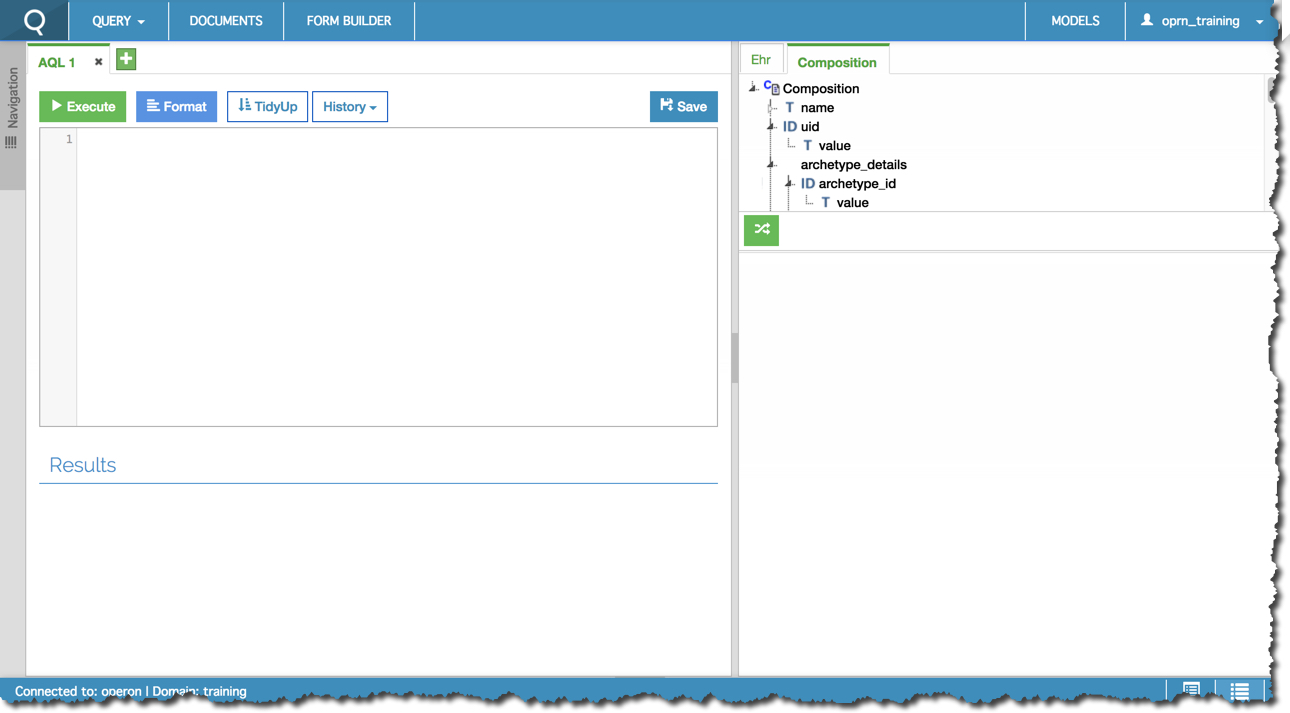
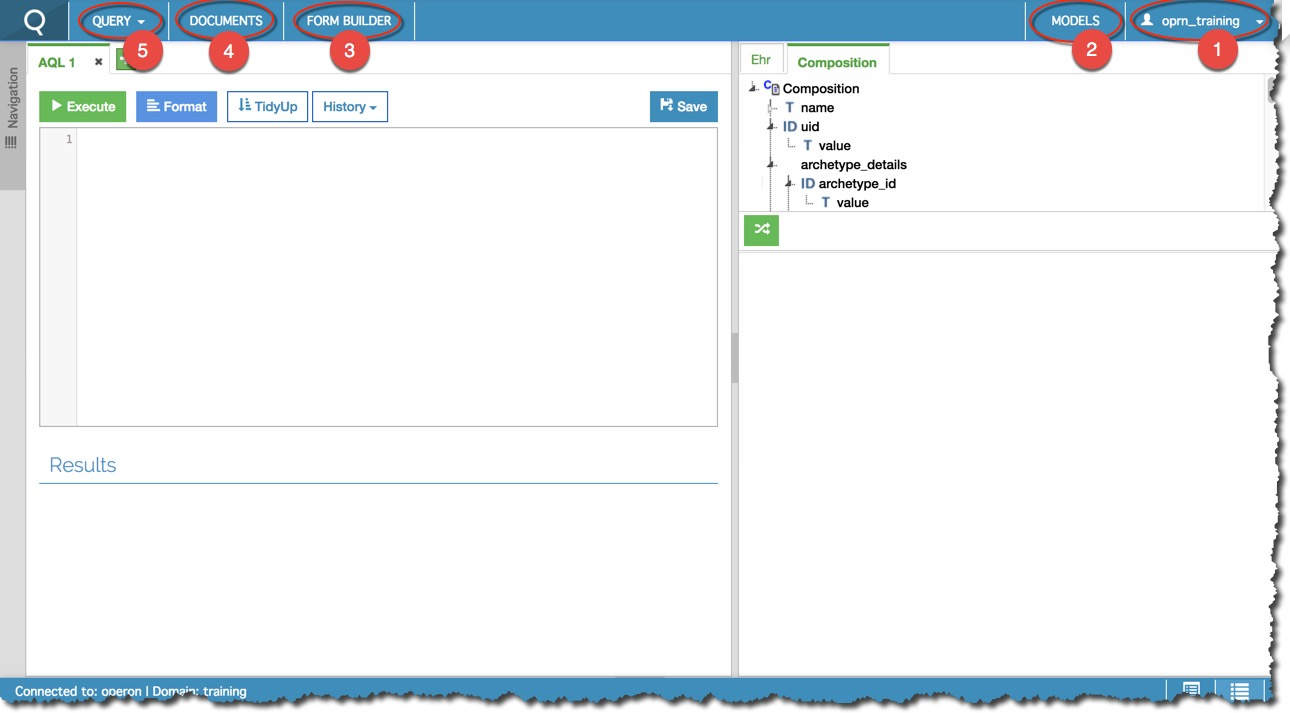
new content and updated images

diff --git a/pages/Operon/EHR Explorer/EHREX2-navigation.md b/pages/Operon/EHR Explorer/EHREX2-navigation.md
@@ -6,3 +6,27 @@ summary: This section provides an overview of the EHR Explorer home page and how
 ---
 
 ## Home page
+The home page provides access to the different functions. Each of the functions is briefly described below, and there is also a separate page for each which describes all the available functionality in more detail.
+
+<img src="\images/ehr_explorer_landing_page.jpg" alt="EHR Explorer Home Page">
+
+## Navigation
+To navigate to any of the available functions, just use the menu bar at the top.
+
+### 1. Settings and log out
+The button on the very right hand side provides access to the settings screen and allows you to log out. On the settings screen you can define your default domain (if you have more than one), choose whether to have a domain selector available on the login screen, define client and server languages, enable "|" notation and choose the template list label from either Template Id, Default name or Localised name.
+
+<img src="\images/ehr_explorer_settings.jpg" alt="EHR Explorer Settings">
+
+### 2. Models
+The Models option switches to the Models view where you can import, search and view archetypes and templates. To find out more about this function, [click here]({{site.baseurl}}/EHREX3-models.html)
+
+<img src="\images/ehr_explorer_models.jpg" alt="EHR Explorer Models">
+
+### 3. Form Builder
+The Form Builder option allows you to create, save and test basic forms for entering data directly in the Clinical Data Repository. To find out more
+
+### 4. Documents
+
+
+### 5. Query

diff --git a/pages/Operon/EHR Explorer/EHREX3-models.md b/pages/Operon/EHR Explorer/EHREX3-models.md
@@ -1,0 +1,15 @@
+---
+title:  "Models"
+sidebar: operon_sidebar
+permalink: EHREX3-models.html
+summary: This section provides instructions how to use the Models function in EHR Explorer.
+---
+
+## Overview
+The Models function allows you to manage the templates and archetypes used in your Clinical Data Repository. You can import new templates (which will automatically import the associated archetypes), delete templates which are no longer required and view the content of existing templates and archetypes.
+
+You can access the Model function by clicking on the Models button (2) in the top menu.
+
+<img src="\images/ehr_explorer_landing_page.jpg" alt="EHR Explorer Home Page">
+
+## Import
